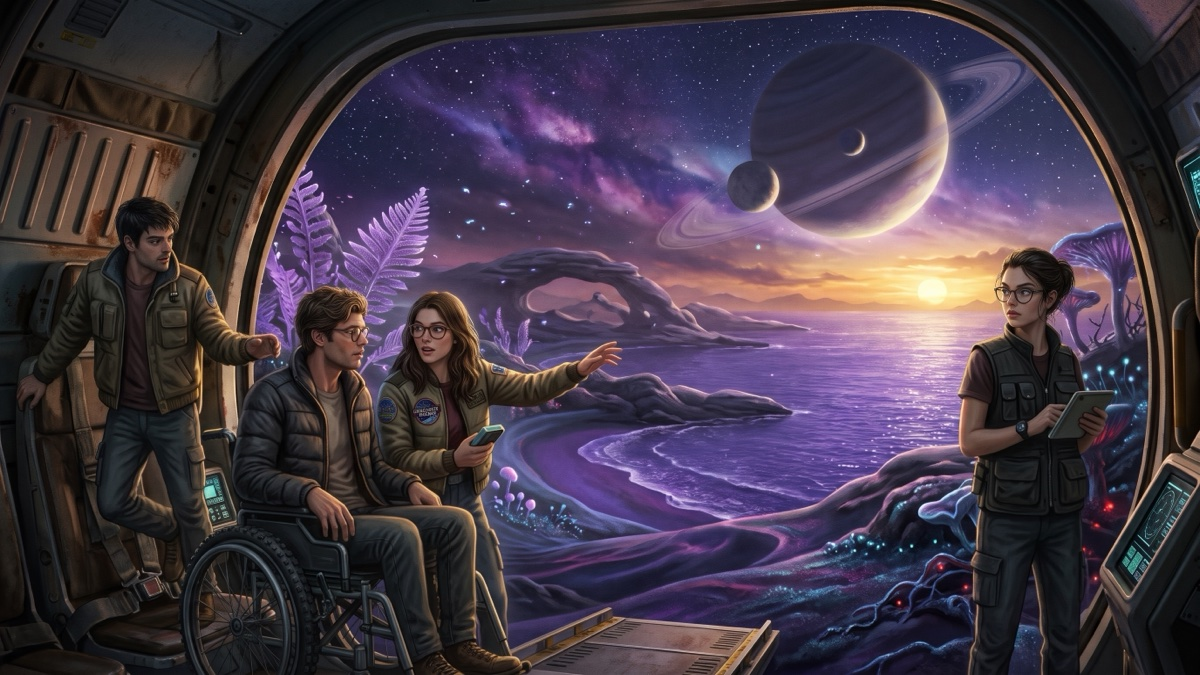
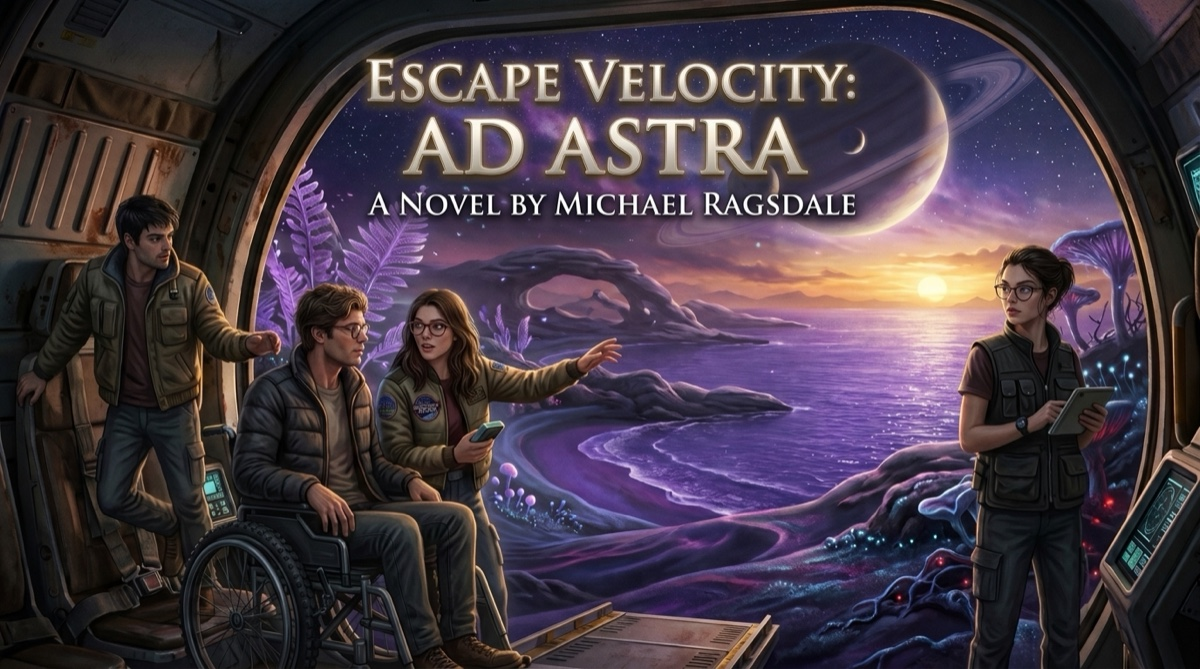
Add AI-generated 2:3 and 16:9 OG book covers for Escape Velocity: Ad Astra

Changed region(s): [[0.2775, 0.0598, 0.74, 0.3587], [0.9867, 0.2392, 1.0, 0.299], [0.3392, 0.5979, 0.37, 0.6278]]

diff --git a/raggiesoft-books/books/ad-astra/e001/c001/p001.md b/raggiesoft-books/books/ad-astra/e001/c001/p001.md
@@ -8,6 +8,7 @@ location: "Aft Cargo Bay & Landing Ramp, U.S.S. Aethelgard — Caelum-IV Shoreli
 pov: "Cassidy O'Connell"
 theme: "ad-astra-nebulae"
 audio: "the-stardust-engine/1996-ad-astra-single/web-mp3/1-01-escape-velocity-ad-astra.mp3"
+og_image: "{{CDN}}/raggiesoft-books/images/covers/og/ad-astra.jpg"
 image: "{{CDN}}/raggiesoft-books/images/scenes/ad-astra/e001-c001-p001-caelum-iv-landing.jpg"
 image_alt: "Widescreen view from inside the open cargo hatch of the star-cruiser U.S.S. Aethelgard looking out onto the purple-sand beach and violet ocean of Caelum-IV. On the left, pilot twin Tyler/Evan Wright stands beside lead guitarist Ryan O'Connell in his custom manual wheelchair at the top of the landing ramp. Beside Ryan, lead vocalist Cassidy O'Connell holds a handheld frequency scanner and points out toward the bay in curiosity. On the right, manager Holly O'Connell stands by the starboard telemetry console with a datapad, keeping clear line-of-sight with her siblings. Outside, lavender bio-silica fronds and giant bioluminescent mushroom canopies frame a sky dominated by the ringed gas giant Vespera, its shepherd moons Lumen and Umbra, and the golden twilight of the orange dwarf star Solis-V."
 ---
@@ -108,3 +109,4 @@ Here, on a moon twelve hundred light-years from Progress Street, the planet itse
 Up on the flight deck, Tyler Wright's voice came back over the cargo bay speakers, warm and grinning. *"Locked, chocked, and humming in F-sharp minor, Ry. Take her down the ramp."*
 
 Ryan released his wheel locks with two crisp clicks, leaned forward, and rolled out of the *U.S.S. Aethelgard* into the golden-violet light of Sanctuary.
+

diff --git a/raggiesoft-books/books/ad-astra/e001/c002/p001.md b/raggiesoft-books/books/ad-astra/e001/c002/p001.md
@@ -91,3 +91,4 @@ Carefully, he eased his front wheels two inches over the threshold.
 Instantly, the soil beneath his front casters bloomed with a ring of warm crimson light, followed half a beat later by two longer cyan traces that recognized the exact wheelbase spacing of his chair. Unlike the single circular pulse under Holly's boot, the mycelial network beneath Ryan's tires pulsed in a paired, symmetrical double-ring—mapping the four contact points of his manual wheelchair as a single, welcome visitor—and sent a ribbon of cyan light racing down the coastline toward the bay.
 
 "It's not an alarm," Ryan said softly, watching the crimson and cyan veins pulse beneath his wheels in exact time with the `120.0 BPM` indicator on Holly's pad. "It's a handshake. It's telling the rest of the bay that someone just rolled into the room."
+

diff --git a/raggiesoft-books/books/ad-astra/e001/c003/p001.md b/raggiesoft-books/books/ad-astra/e001/c003/p001.md
@@ -85,3 +85,4 @@ They weren't running from *The Cage* anymore. They were home.
 
 > **CAPTAIN'S PERSONAL DEDICATION // ARCHIVE ADDENDUM (`STARDATE 49601.8`)**<br>
 > *Recorded in the permanent navigation archive of the U.S.S. Aethelgard in memory of the Captain of the NCC-1701-D—who taught a generation watching weeknight television with their families that the cosmos is not a dark wilderness to be feared or conquered, but a sanctuary of reason, empathy, and wonder waiting to be heard. Second star to the right, and straight on 'til morning. Engage.*
+
